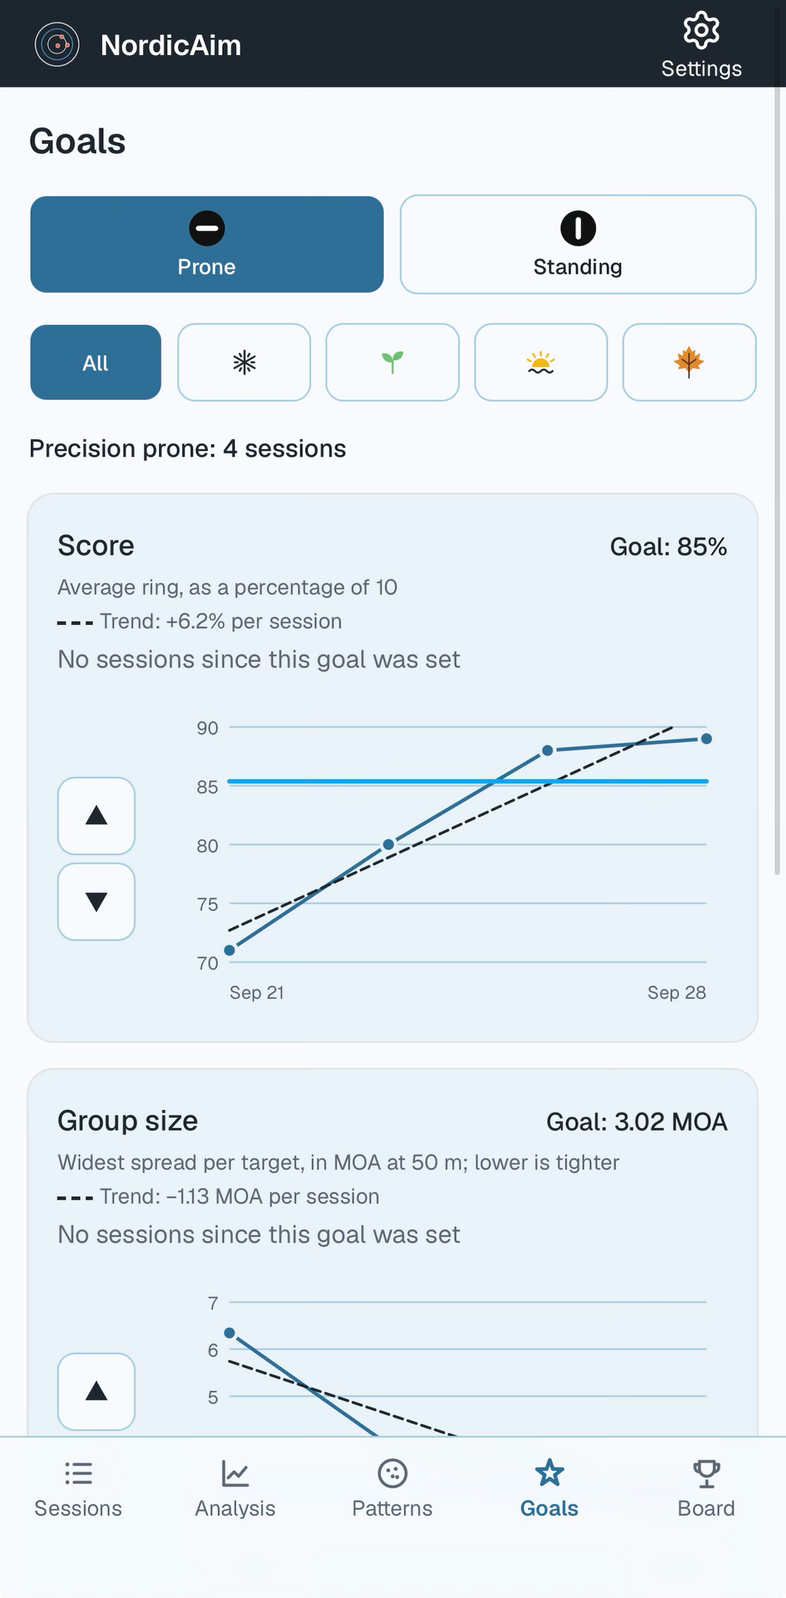
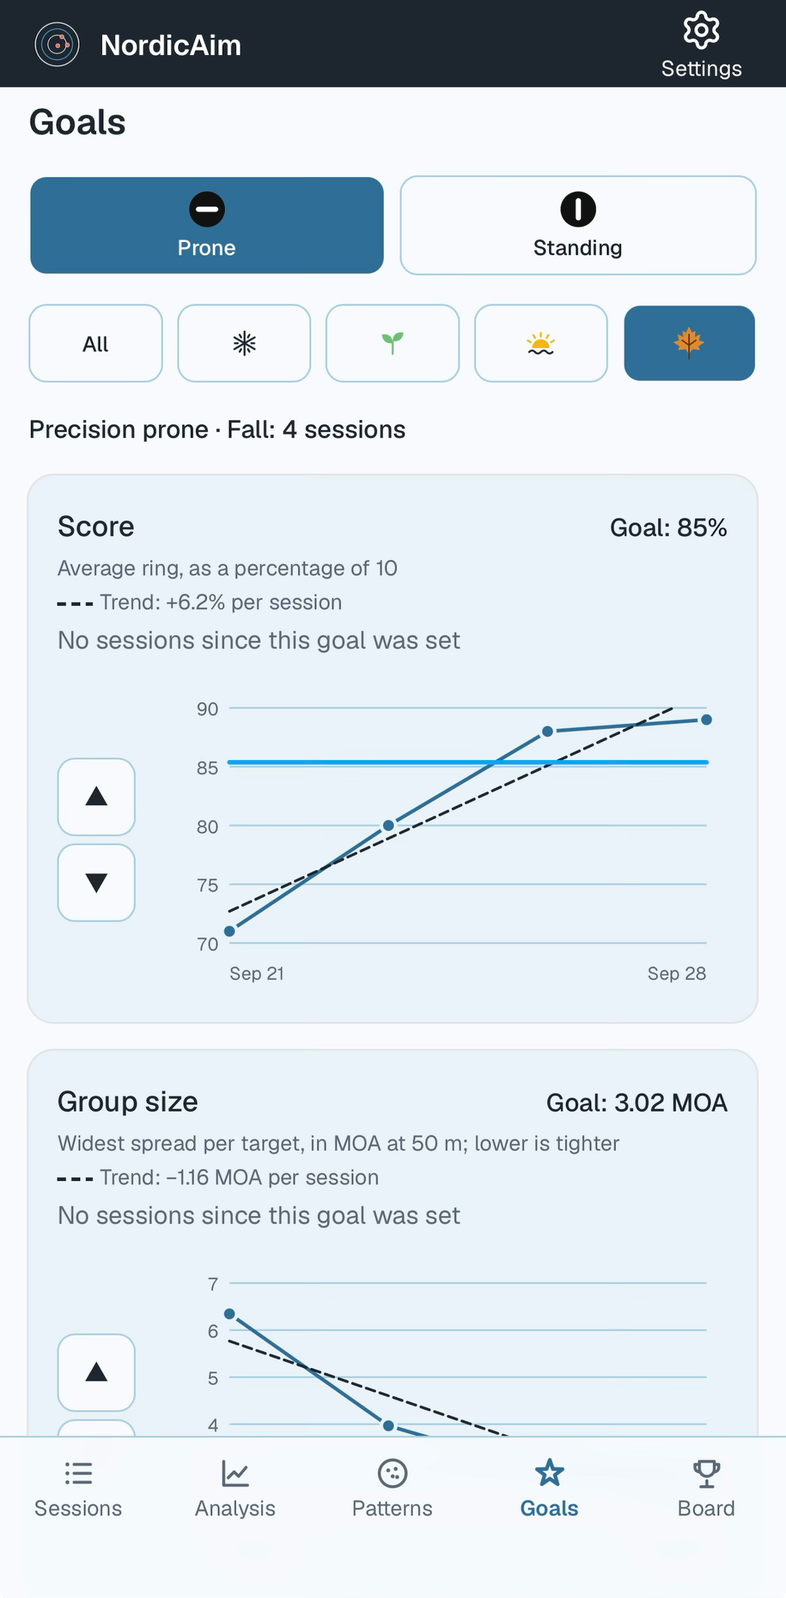
Docs: Goals screenshot from the owner's iPhone, with a season chosen
Claude-Session: https://claude.ai/code/session_011nJupxVuQvQUQUo39E3m88

diff --git a/docs/guide/README.md b/docs/guide/README.md
@@ -227,7 +227,7 @@ Sessions, Patterns, Analysis and Goals each have a row of five buttons: **All**,
 Tap **Goals** on the bottom bar. Choose **Prone** or **Standing**, then set where you want each measure to be: **Score**, **Group size**, **Accuracy (RMS)** and **Biathlon hits** (the share of your shots that would hit the biathlon hit zone: 45 mm prone, 115 mm standing).
 
 <p align="center">
-  <img src="../assets/screens/goals.png" width="300" alt="The Goals screen on Prone: the season row, then the Score chart with its goal line at 85% and the Group size chart below">
+  <img src="../assets/screens/goals.png" width="300" alt="The Goals screen on Prone with Fall chosen: the Score chart with its goal line at 85% and its trend, and the Group size chart below">
 </p>
 
 Each chart plots every session, with the dashed trend line from three sessions, as on Analysis. Tap **▲** or **▼** beside a chart to move its goal, drawn as a solid blue line. Each tap saves at once.

diff --git a/README.md b/README.md
@@ -143,7 +143,7 @@ The **Board** ranks shooters by the average of their best 5 precision targets, o
 
 <table>
   <tr>
-    <td align="center" width="50%"><img src="docs/assets/screens/goals.png" alt="The Goals screen on Prone: the season row, then the Score chart with its goal line at 85% and the Group size chart below" width="300"></td>
+    <td align="center" width="50%"><img src="docs/assets/screens/goals.png" alt="The Goals screen on Prone with Fall chosen: the Score chart with its goal line at 85% and its trend, and the Group size chart below" width="300"></td>
     <td align="center" width="50%"><img src="docs/assets/screens/board-list.png" alt="A board of fictional shooters: a gold trophy in place of first, each shooter's initials where a picture would be, each average in a gold or silver star, and Edited marks" width="300"></td>
   </tr>
   <tr>
